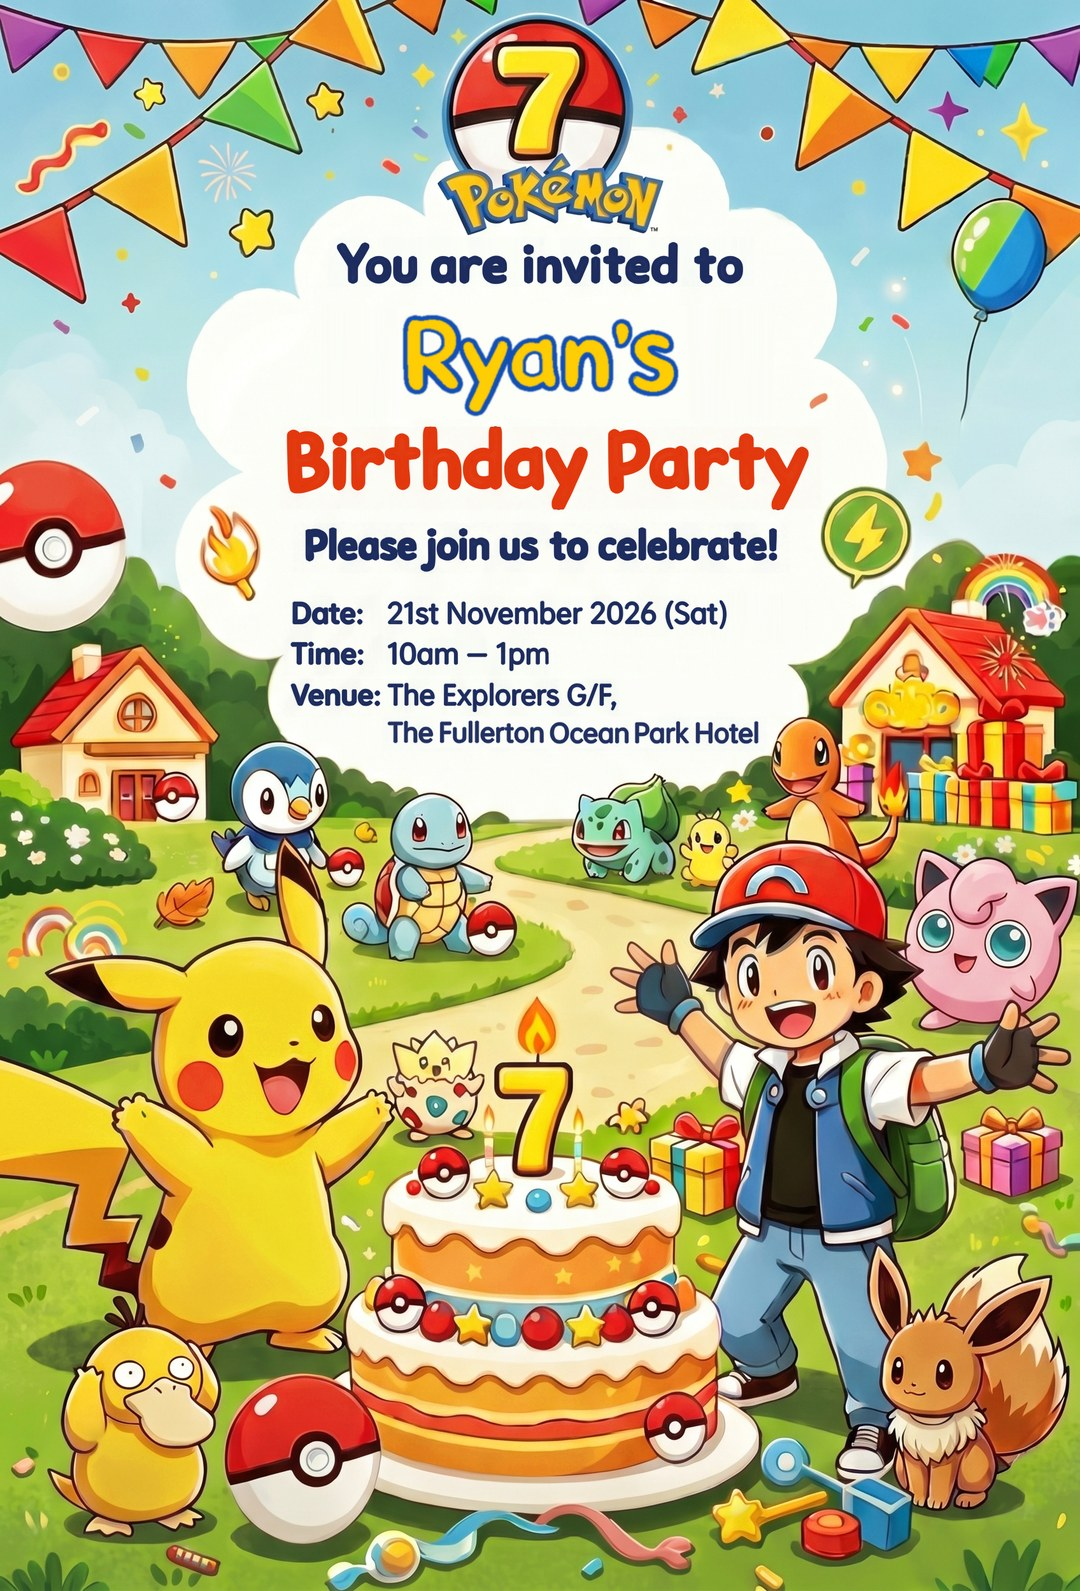
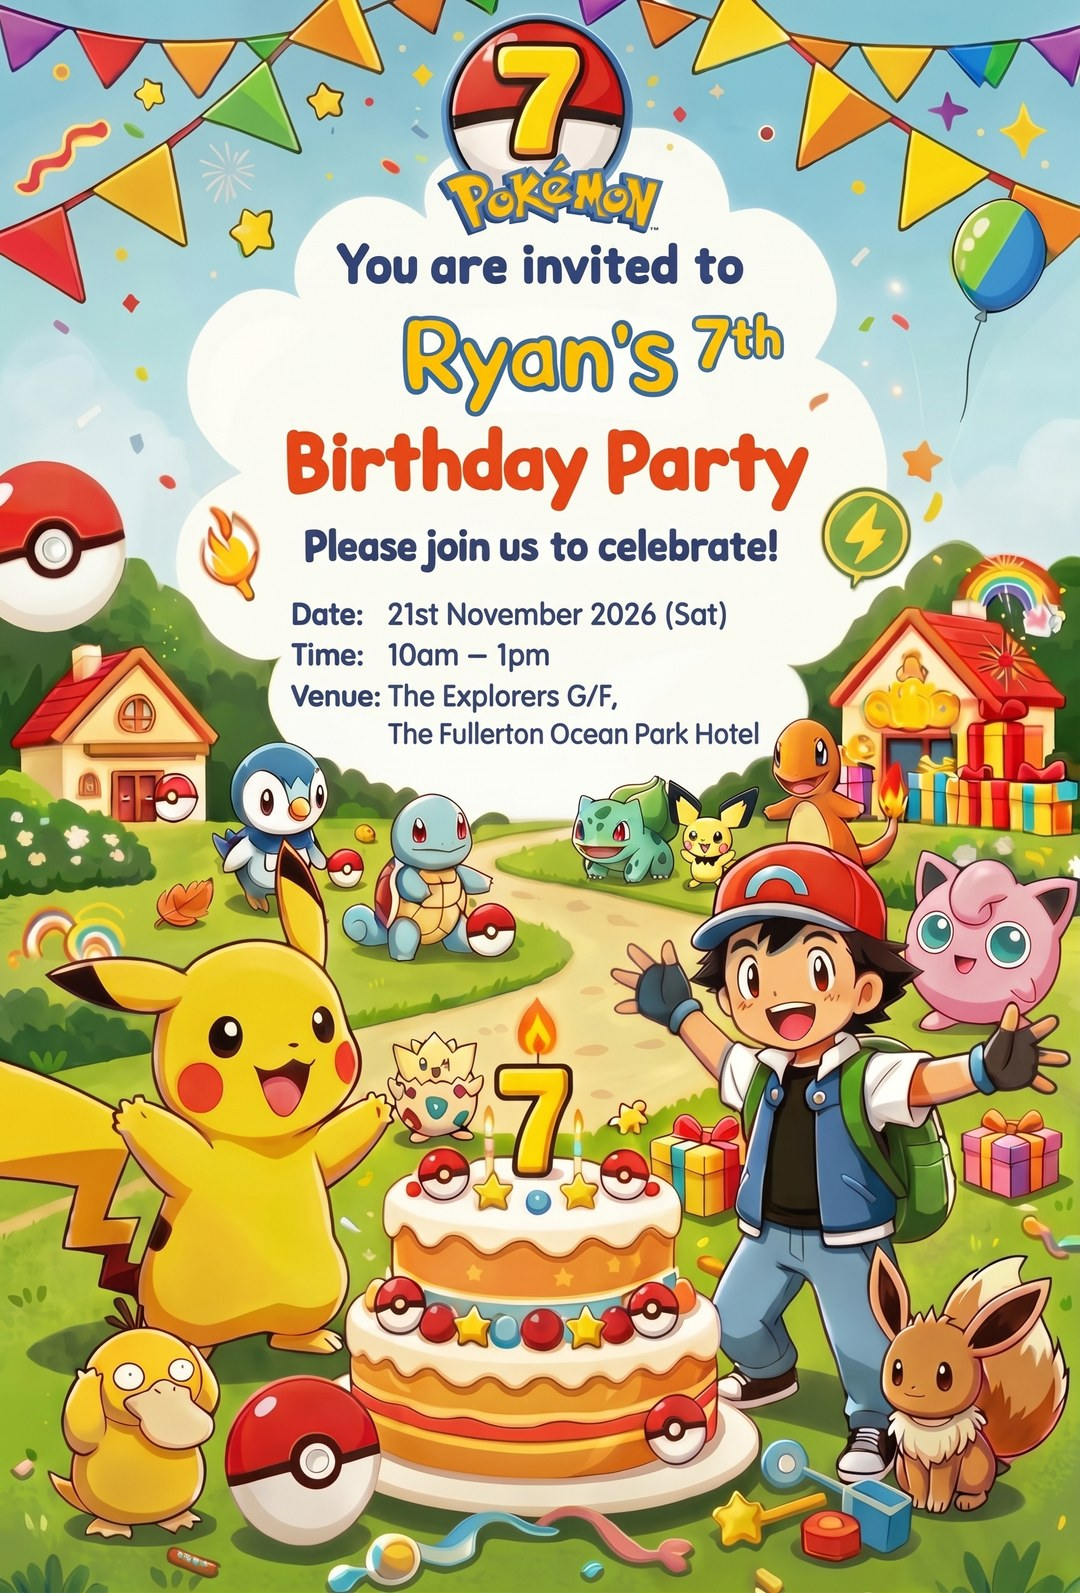
Update invitation artwork

diff --git a/index.html b/index.html
@@ -171,7 +171,7 @@ footer{text-align:center;font-size:12px;color:#7a84a3;padding:16px 0 28px}
 
 <div class="wrap">
   <div class="card" id="card">
-    <img src="invite.jpg" width="1080" height="1591" alt="Ryan's 7th Birthday Party invitation — Saturday 21 November 2026, 10am–1pm, The Explorers G/F, The Fullerton Ocean Park Hotel">
+    <img src="invite.jpg" width="1080" height="1593" alt="Ryan's 7th Birthday Party invitation — Saturday 21 November 2026, 10am–1pm, The Explorers G/F, The Fullerton Ocean Park Hotel">
     <!-- overlays: positions are % of the 1696x2498 source image -->
     <div class="fx halo"  style="left:49.82%;top:64.53%"></div>
     <div class="fx flame" style="left:49.82%;top:64.53%"></div>
